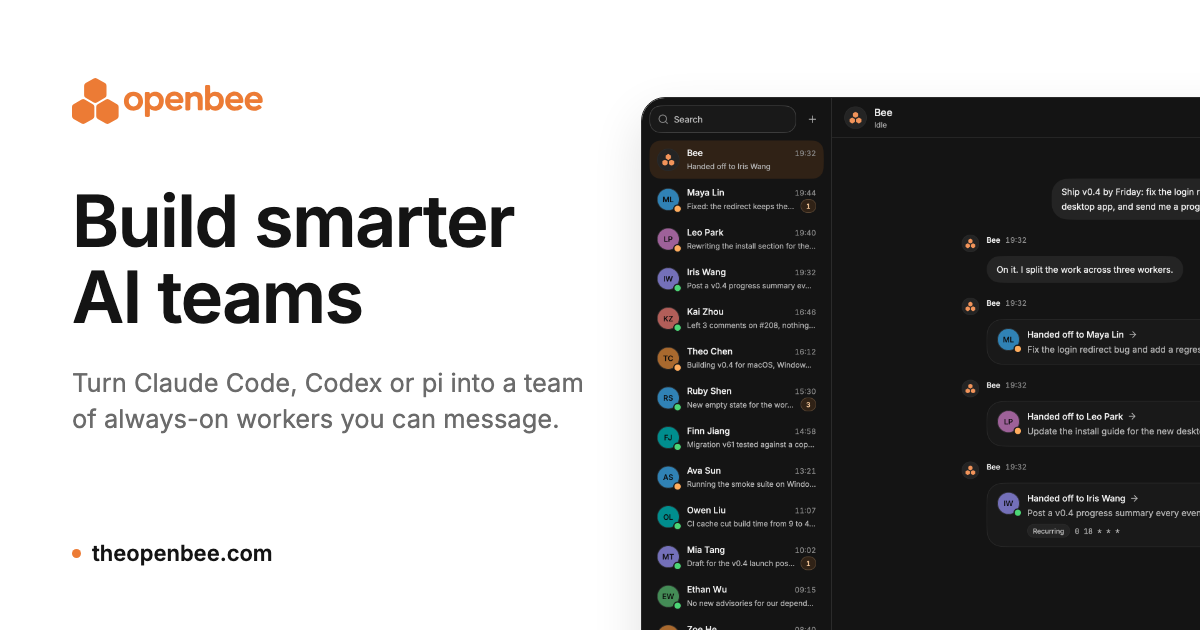
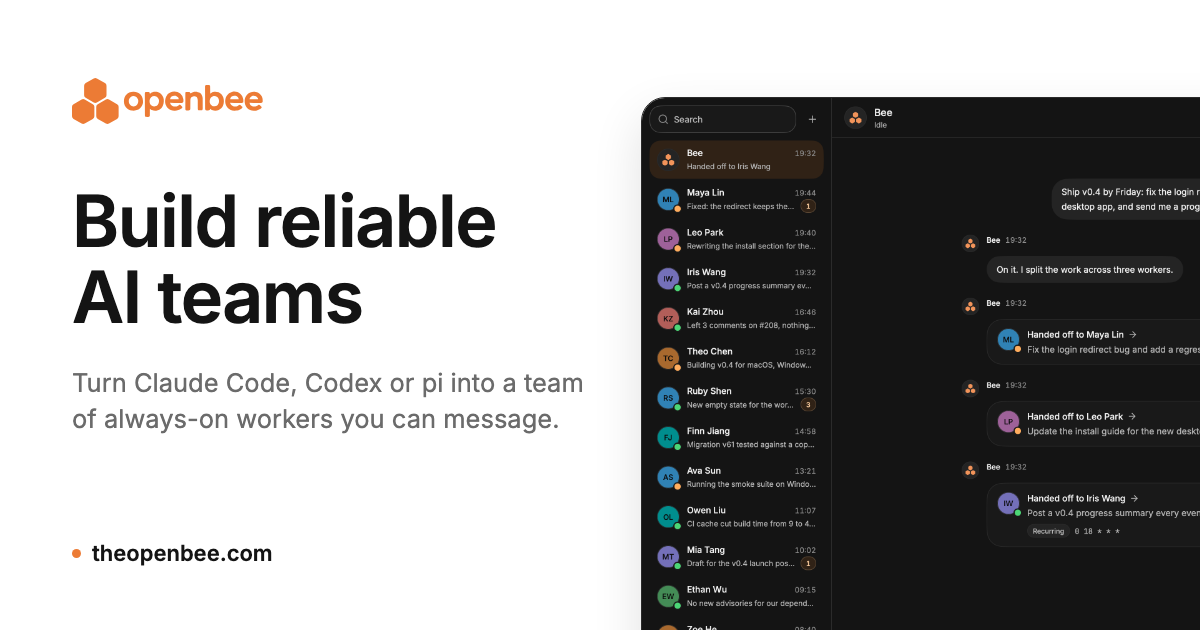
feat: call OpenBee reliable rather than smarter

Changed region(s): [[0.2158, 0.3016, 0.4317, 0.3921]]

diff --git a/src/i18n/content.ts b/src/i18n/content.ts
@@ -162,7 +162,7 @@ export interface SiteContent {
 const en: SiteContent = {
   lang: "en",
   meta: {
-    title: "OpenBee: build smarter AI teams",
+    title: "OpenBee: build reliable AI teams",
     description: "OpenBee turns Claude Code, Codex or pi into a team of always-on workers you message from the desktop app, the browser or your chat app.",
   },
   skipLink: "Skip to content",
@@ -177,7 +177,7 @@ const en: SiteContent = {
     download: "Download",
   },
   hero: {
-    title: "Build smarter AI teams",
+    title: "Build reliable AI teams",
     description: "OpenBee turns the agent CLI you already use into a team of always-on workers.",
     primary: "Download OpenBee",
     secondary: "View on GitHub",
@@ -366,7 +366,7 @@ const en: SiteContent = {
     home: "Go to the home page",
   },
   footer: {
-    tagline: "Build smarter AI teams.",
+    tagline: "Build reliable AI teams.",
     product: "Product",
     developers: "Developers",
     language: "Language",
@@ -386,7 +386,7 @@ const en: SiteContent = {
 const zh: SiteContent = {
   lang: "zh-CN",
   meta: {
-    title: "OpenBee：打造更聪明的 AI 团队",
+    title: "OpenBee：打造更可靠的 AI 团队",
     description: "OpenBee 把 Claude Code、Codex 或 pi 变成一支 7×24 小时在线的数字员工团队，在桌面应用、浏览器或聊天软件里派活。",
   },
   skipLink: "跳到正文",
@@ -401,7 +401,7 @@ const zh: SiteContent = {
     download: "下载",
   },
   hero: {
-    title: "打造更聪明的 AI 团队",
+    title: "打造更可靠的 AI 团队",
     description: "OpenBee 把你已经在用的 Agent CLI 变成一支 7×24 小时在线的数字员工团队。",
     primary: "下载 OpenBee",
     secondary: "在 GitHub 上查看",
@@ -590,7 +590,7 @@ const zh: SiteContent = {
     home: "返回首页",
   },
   footer: {
-    tagline: "打造更聪明的 AI 团队。",
+    tagline: "打造更可靠的 AI 团队。",
     product: "产品",
     developers: "开发者",
     language: "语言",
